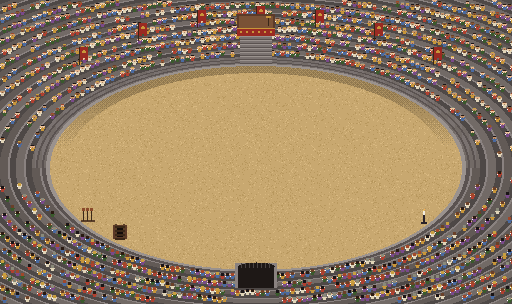
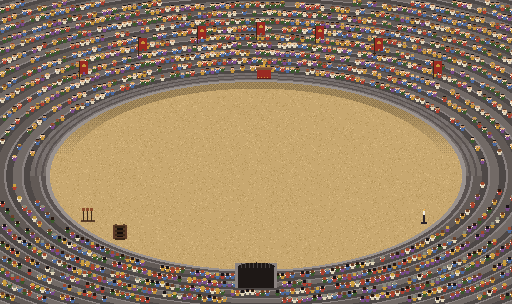
Barnaby ringside: on the sand at a commentator's desk; the announcer's box is gone
Claude-Session: https://claude.ai/code/session_01M3Peeuj4v63JAjidnU8Moq

diff --git a/EPISODES.md b/EPISODES.md
@@ -66,14 +66,14 @@ don't follow the crime (twenty, then *one*, then fifty), and the last one gets a
 - **Episode 13, "Unacceptable"** (`node scripts/episode-video.mjs 13`, 16.2 s: allowed up to about twenty, author,
   "its dialogue is too fast"; `read: 1.45`). Two fixed shots, cut between, never panned (author: "camera angles are
   video game like"): the ring (you in the middle, your three side by side on your left, Brannoc a few tiles off on your
-  right) and Barnaby's announcer's box, high in the stands up an aisle of steps. The Warden is out of sight; he enters
-  with the arena shaking, later. Barnaby (box): "Well, well, well. If it isn't our final contestants." The menu: *I was
-  just going for a walk.* Barnaby (box, the screen jolts): "UNACCEPTABLE." / "You will pay with your lives!" Brannoc
+  right) and Barnaby, ringside on the sand at his commentator's desk (author: the box looked bad). The Warden is out of sight; he enters
+  with the arena shaking, later. Barnaby (desk): "Well, well, well. If it isn't our final contestants." The menu: *I was
+  just going for a walk.* Barnaby (desk, the screen jolts): "UNACCEPTABLE." / "You will pay with your lives!" Brannoc
   (ring): "P-P-Pay with our lives!?" and he passes out flat, away from you, Zs and a snot bubble. Your three: Silas Seen "I pulled a muscle on
-  the way up here." Old Mott "I am too old for this." Nails "My ice cubes melted." Barnaby (box, the screen jolts):
+  the way up here." Old Mott "I am too old for this." Nails "My ice cubes melted." Barnaby (desk, the screen jolts):
   "FIGHT!" Cut. (Cut along the way, author: "...Did he just faint?" / "...pathetic.", "FINISH THEM!") The game says exactly the same (`ARENA_WELCOME`, `ARENA_EXCUSES`, `ARENA_VERDICT`,
-  `ARENA_FIGHT` in `dungeon.ts`; any excuse gets the same answer, and there's a mean one), with Barnaby in his box
-  (`barnaby-box`, tiles `A`, the aisle `S`), your three beside you where you come up through the trapdoor, and Brannoc
+  `ARENA_FIGHT` in `dungeon.ts`; any excuse gets the same answer, and there's a mean one), with Barnaby ringside at
+  his desk (`barnaby-box`, the desk is tile `+`), your three beside you where you come up through the trapdoor, and Brannoc
   asleep with a snot bubble (`snot`, `sleep.ts`; standing, in the game), then the five guards and the Warden, who
   comes up the tunnel. If you never let the three out, Barnaby welcomes "our runaways" and they aren't there.
   Barnaby is a ringmaster now (top hat, red tailcoat, moustache), and a small guy (`short`: stubby legs), here and in Warrior City.
